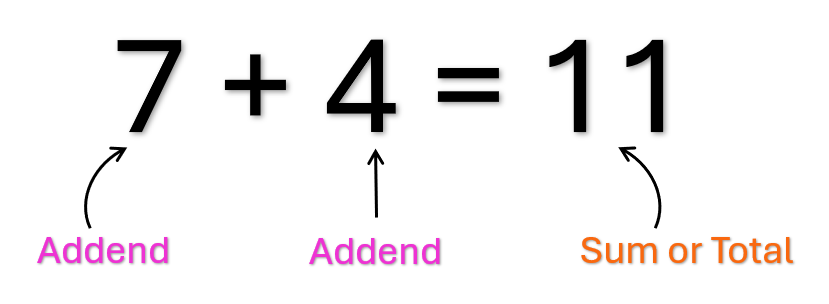
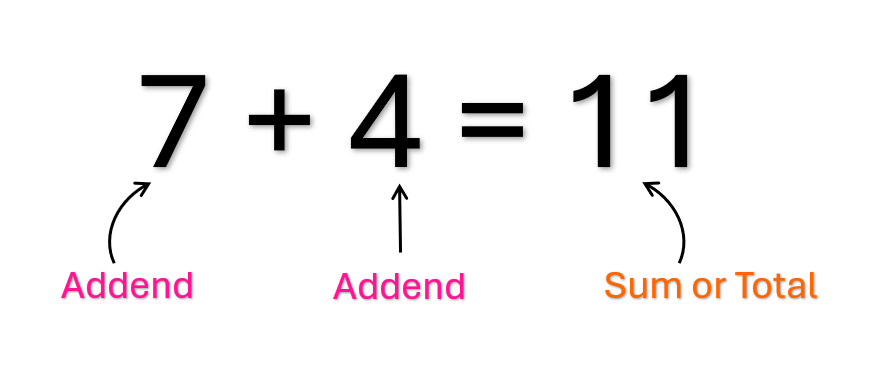
Edit and add content

diff --git a/addition.html b/addition.html
@@ -29,15 +29,15 @@
         <h2>What is Addition?</h2>
             <p><strong>Addition </strong>is when we take two or more numbers and joining it together to make a
                 bigger number.</p>
-            <!--Insert picture of adding shapes-->
+            <img src="images/Addition_With_Shapes.PNG" alt="Addition problem with shapes" style="width:850px;height:320px";>
             <p>We can think of it as having a number to start with and counting up from it.</p>
-            <!--Insert picture of adding in number line-->
+            <img src="images/Addition_With_Number_Line.PNG" alt="Addition problem with a number line" style="width:800px;height:300px";>
             <p>When we read or say the addition problem we say, "A number plus another number equals a number".</p>
             <img src="images/Addition_In_Words.PNG" alt="Addition problem in words" style="width:1000px;height:250px";>
             <h3>Different Parts of an Addition Problem</h3>
                 <p>The numbers being added together are called <strong>addends</strong>.</p>
                 <p>The answer to an addition problem is called a <strong>sum</strong> or <strong>total</strong>.</p>
-                <img src="images/Addition_Problem_With_Labels.PNG" alt="Addition problem with labels" style="width:650px;height:250px";>
+                <img src="images/Addition_Problem_With_Labels.PNG" alt="Addition problem with labels" style="width:600px;height:260px";>
             <p><b>Note: </b>The order of the numbers don't matter when adding. For example, 7 + 4 is the same as
                 4 + 7</p>
     </div>
@@ -54,7 +54,7 @@
                     <li>Then we just add the numbers and write the sum below the line.</li>
                 </ol>
             </p>
-            <img src="images/Addition_In_Columns.PNG" alt="Addition in columns" style="width:700px;height:250px";>
+            <img src="images/Addition_In_Columns.PNG" alt="Addition in columns" style="width:850px;height:250px";>
             <p>This is also a common way to add numbers with two or more digits.</p>
     </div>
     <div>
@@ -69,7 +69,7 @@
                 <p>Then add the numbers one column at a time</p>
                 <p>For the columns that don't have any numbers to add, we simply bring it down. We can also think of it as the
                     number plus an invisible 0.</p>
-                <img src="images/Addition_With_More_Digits.PNG" alt="Adding numbers where a number has more digits" style="width:1000px;height:250px";>
+                <img src="images/Addition_With_More_Digits.PNG" alt="Adding numbers where a number has more digits" style="width:1100px;height:250px";>
             <h3>Regrouping</h3>
                 <p>Sometimes when we add numbers in a column, the sum is greater than 9. When that happens we do what
                     is called <strong>regrouping</strong>.</p>
@@ -85,9 +85,11 @@
                     </ol>
                     <p><b>Note: </b>Regroup does not happen for the last column because there are no other numbers
                         to add, so we can go ahead and write down the answer.</p>
-                    <img src="images/Regrouping_One_Column.PNG" alt="Regrouping in one column" style="width:1000px;height:700px";>
+                    <img src="images/Regrouping_One_Column_Step_1.PNG" alt="Regrouping in one column step 1" style="width:1000px;height:230px";>
+                    <img src="images/Regrouping_One_Column_Step_2.PNG" alt="Regrouping in one column step 2" style="width:1000px;height:250px";>
+                    <img src="images/Regrouping_One_Column_Step_3.PNG" alt="Regrouping in one column step 3" style="width:1000px;height:250px";>
                     <p>This is what regrouping in multiple columns looks like.</p>
-                    <img src="images/Regrouping_Multiple_Columns.PNG" alt="Regrouping in multiple columns" style="width:1000px;height:250px";>
+                    <img src="images/Regrouping_Multiple_Columns.PNG" alt="Regrouping in multiple columns" style="width:1000px;height:300px";>
     </div>
 </body>
 </html>

diff --git a/multiplication.html b/multiplication.html
@@ -406,14 +406,17 @@
                     </li>
                     <li>The final answer is after the zeros back.</li>
                 </ol>
+                <!--Insert pictures of multiplying numbers with zeros at the end-->
             <p><b>Remember: </b>This is only for zeros at the end of the number. Zeros inside the number don't
                 count. For example, 5,070,800 we would only take out the zeros at the end so the number becomes
                 50,708.</p>
+                <!--Insert picture of reminder that middle zeros don't count-->
             <p><b>Note: </b>It doesn't have to be both numbers with zeros at the end for this trick to work. As long
                 as one of the numbers have at least one zero at the end we can use this trick.</p>
+                <!--Insert pictures of only one number have ending zeros-->
             <p><b>Remember: </b>We don't have to use this trick, we can still just multiply like normal with the entire
                 number. Taking out the ending zeros just makes it fewer digits to multiply.</p>
-            <!--Insert pictures of multiplying numbers with zeros at the end-->
+
     </div>
 </body>
 </html>
